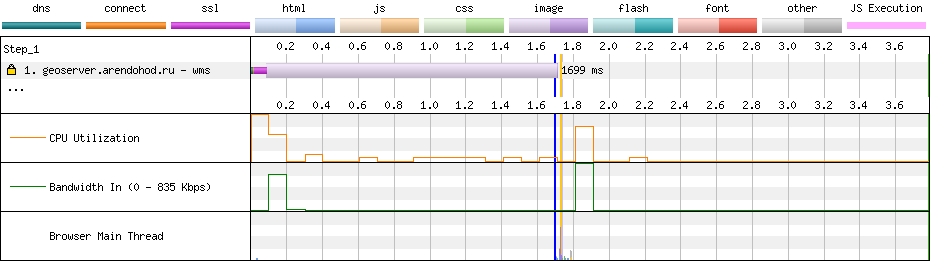
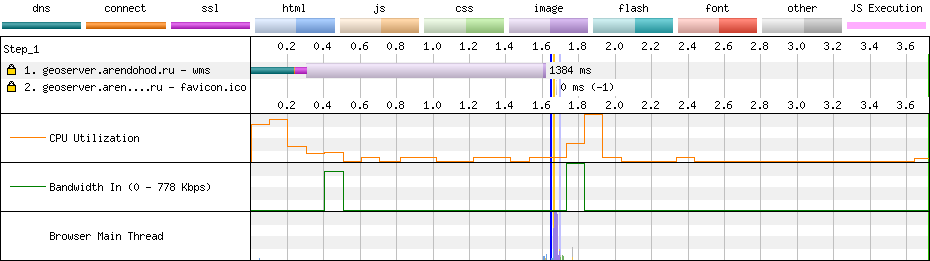
:repeat: upd webpage tester

diff --git a/content/2017-05-10-other-pointstacker.md b/content/2017-05-10-other-pointstacker.md
@@ -331,7 +331,7 @@ Status: draft
 
 Load Time | First Byte | Start Render | Speed Index | Interactive (beta) | Time | Requests | Bytes In
 --------- | ---------- | ------------ | ----------- | ------------------ | ---- | -------- | --------
-  1.697s  |   1.669s   |     3.780s   |     3780    |       > 3.813s     |1.697s|     1    |   9 KB
+  1.647s  |   1.557s   |     3.718s   |     3718    |       > 3.763s     |1.677s|     2    |   9 KB
 
 #### Загрузка отдельных маркеров
 
